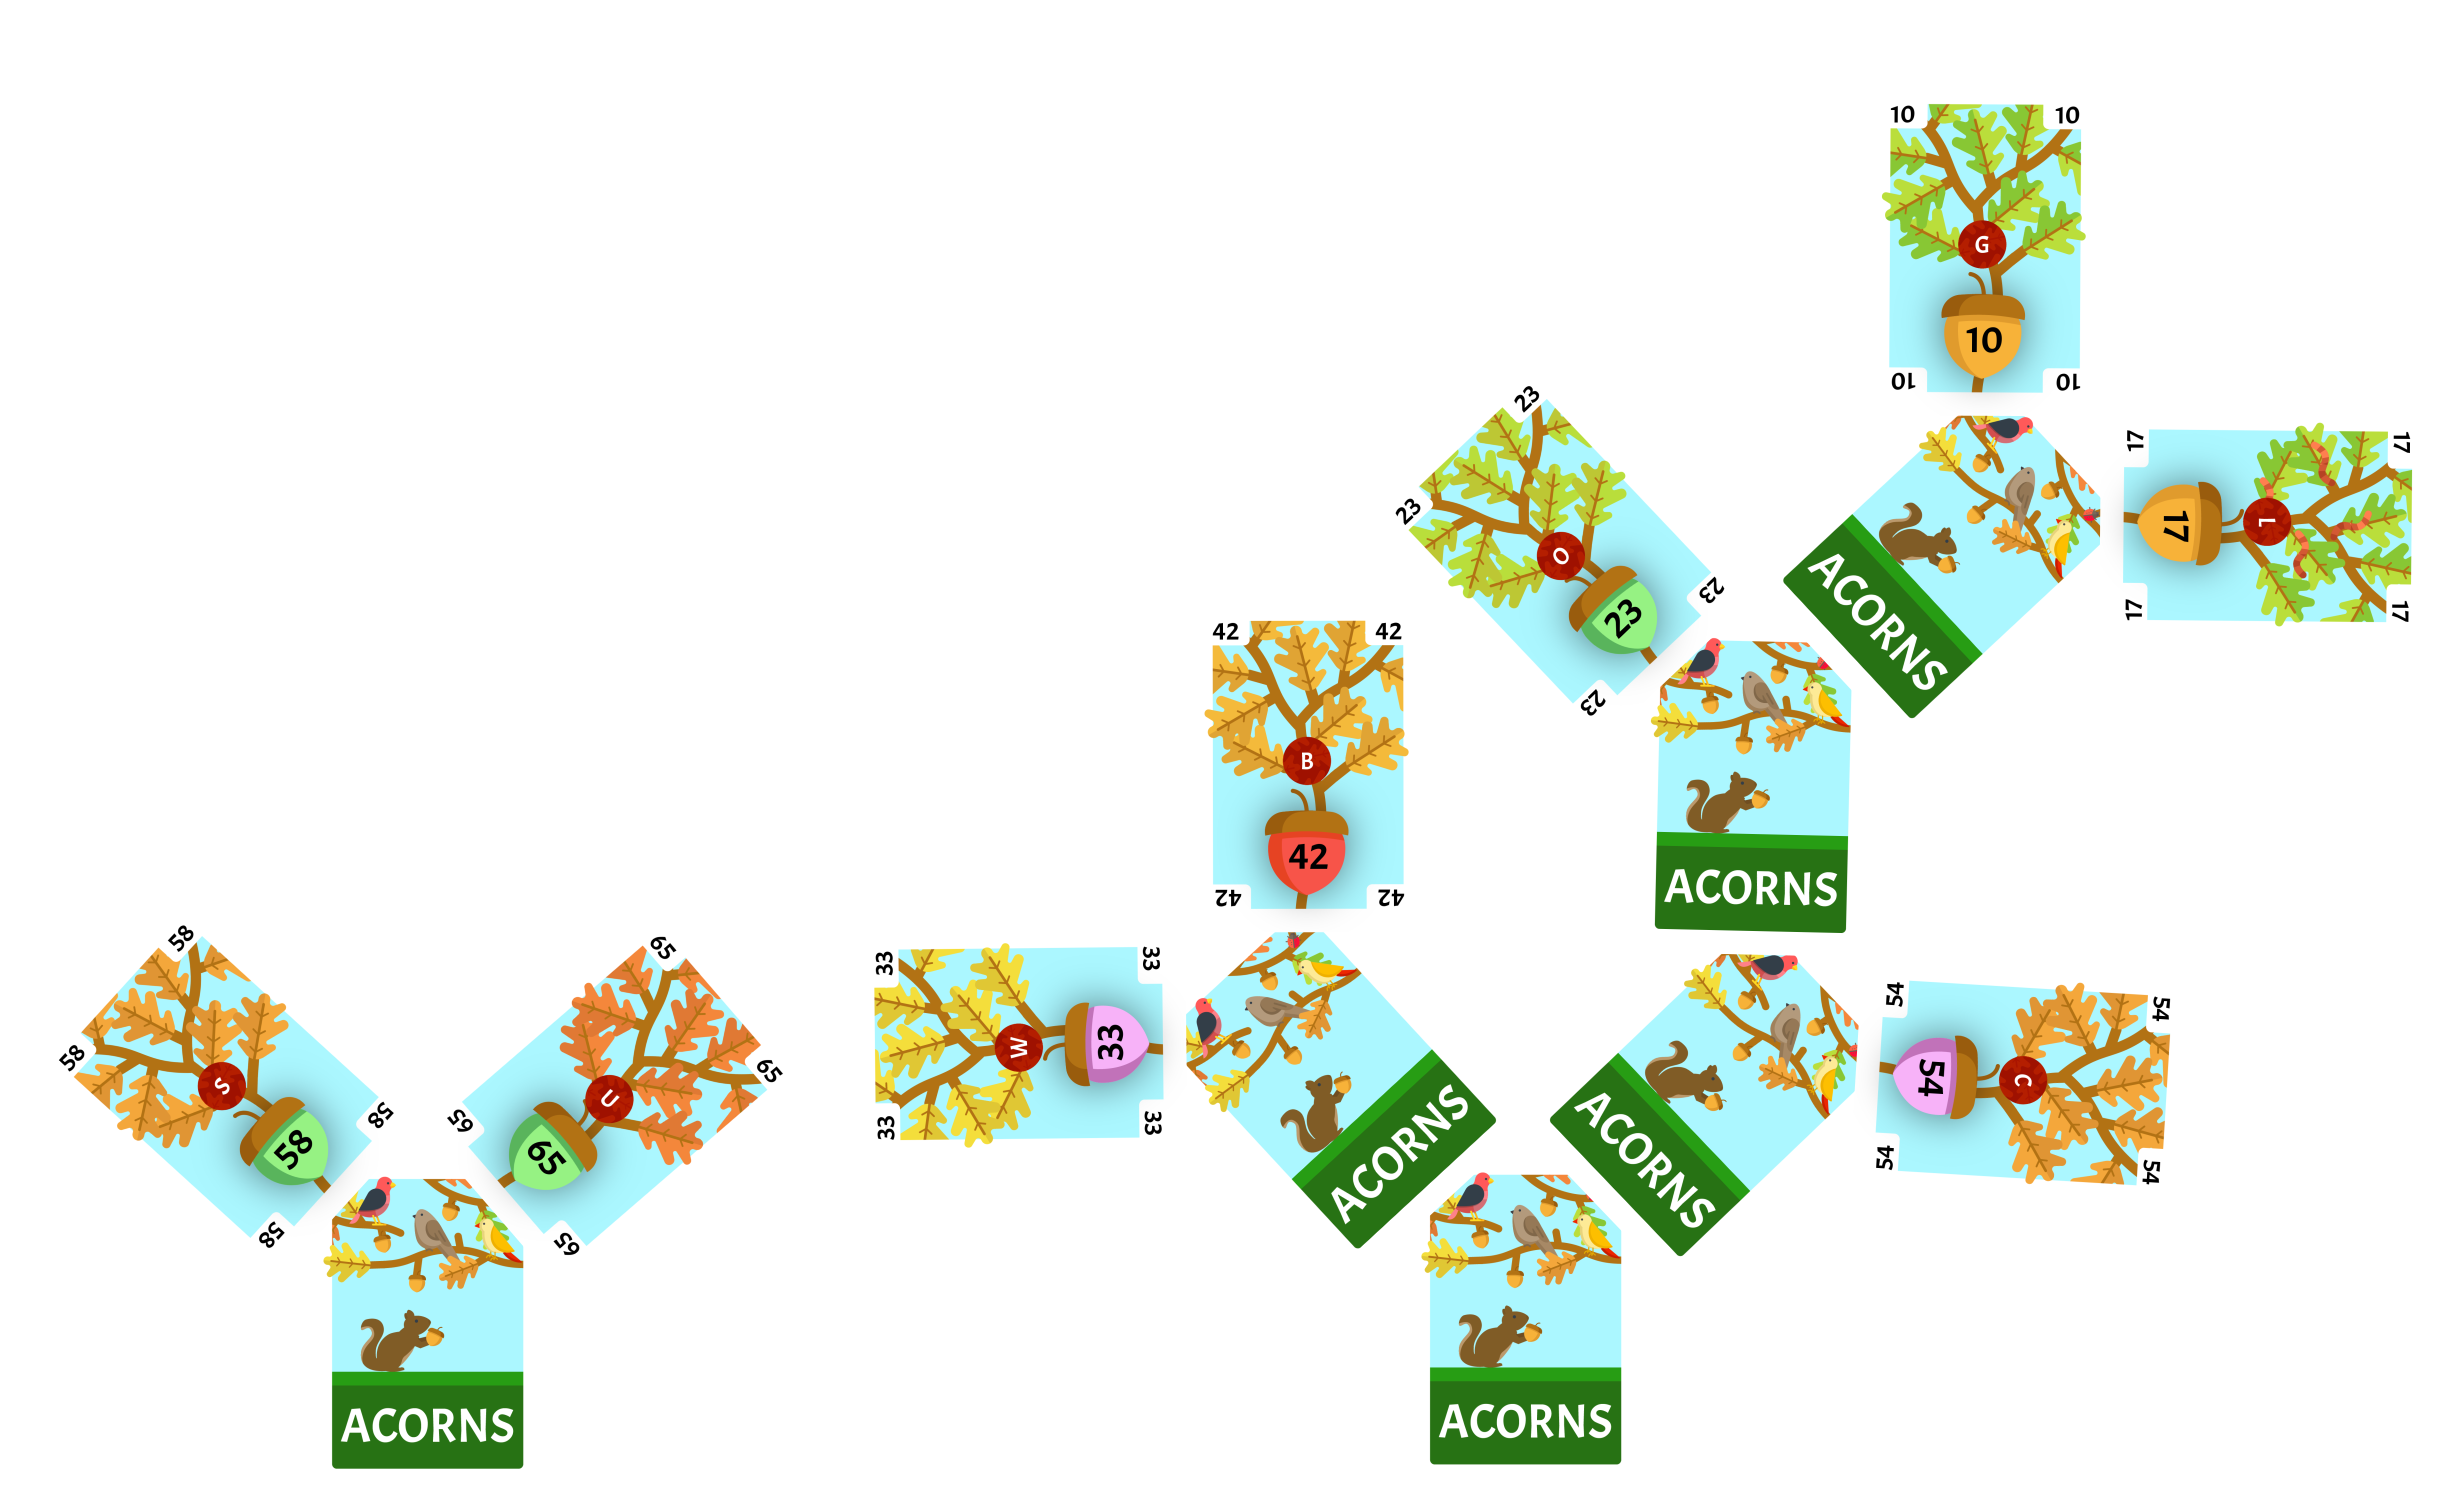
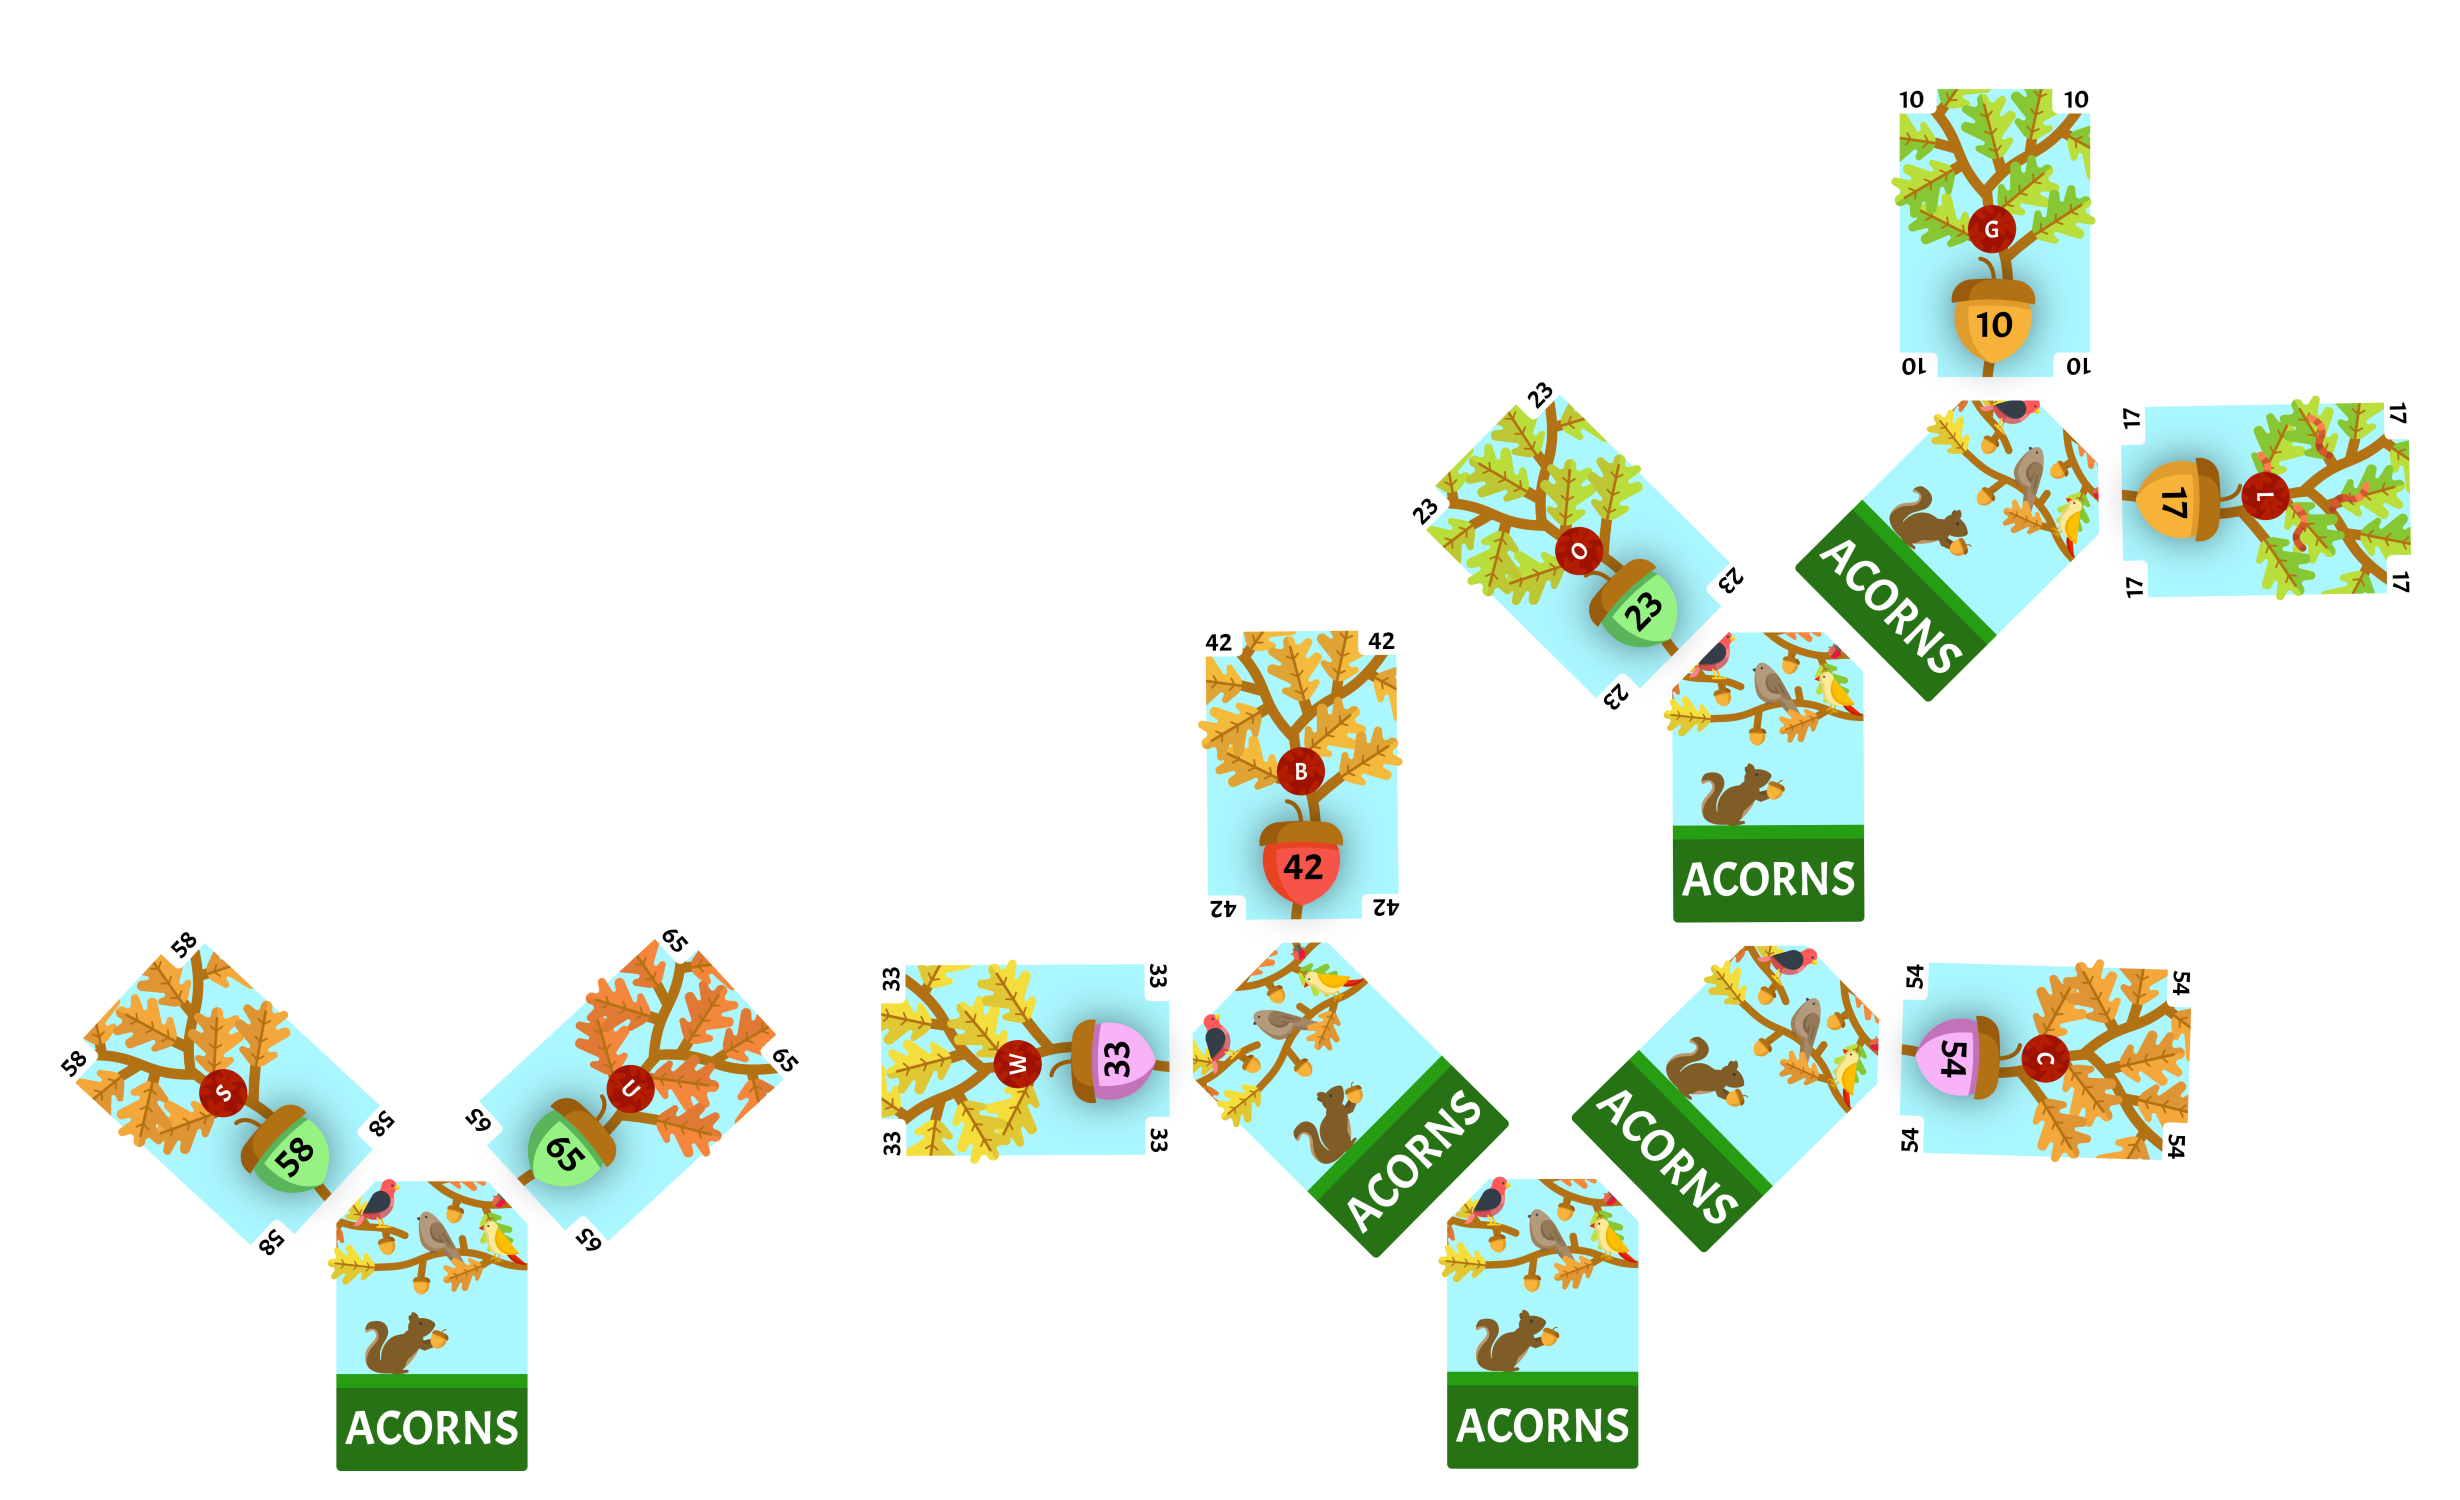
Added sorting to Huffman Algorithm, Added Video, Fixed Images

Changed region(s): [[0.0309, 0.0613, 0.9886, 0.9813]]

diff --git a/_pages/huffman.md b/_pages/huffman.md
@@ -12,6 +12,8 @@ Students will understand elements of the Huffman coding algorithm, which assigns
 
 ## Video
 
+<style>.embed-container { position: relative; padding-bottom: 56.25%; height: 0; overflow: hidden; max-width: 100%; } .embed-container iframe, .embed-container object, .embed-container embed { position: absolute; top: 0; left: 0; width: 100%; height: 100%; }</style><div class='embed-container'><iframe src='https://www.youtube.com/embed/4wa4ikom9-I?si=2Ns4DHQGVlGSEI4P' frameborder='0' allowfullscreen></iframe></div>
+
 ## Materials
 
 One deck of [Acorn]({{site.baseurl}}/tree) cards.
@@ -22,13 +24,15 @@ One deck of [Acorn]({{site.baseurl}}/tree) cards.
 
 Shuffle the deck and deal each student 8 cards. Give each student 8 random chits.
 
-Each student will place their 8 cards in a row face-up to form a *collection* in front of you. Each student will place a chit on each face-up card.
+Each student will place their 8 cards in a row face-up to form a *collection* in front of you. Each student will place a chit on each face-up card and then sort the *collection*
+
+Whenever we sort the *collection*, you are free to use whichever sorting method you have previously learned.
 
 ## Algorithm
 
 ### Constructing the Tree
 
-1. Remove the two **least-valued** cards from the *collection*. Draw a card from the deck and place it face-down as the *root* card of a new subtree. Place the **least-value** of the two cards as the *left* child of the *root* card and the **greatest-value** as the *right* child. The face-down *root* card has the value of its children added together. Reinsert the *root* card into the *collection* and keep all of its children intact.
+1. Sort the *collection* and remove the two **least-valued** cards from the *collection*. Draw a card from the deck and place it face-down as the *root* card of a new subtree. Place the **least-value** of the two cards as the *left* child of the *root* card and the **greatest-value** as the *right* child. The face-down *root* card has the value of its children added together. Reinsert the *root* card into the *collection* keeping all of its children intact and sort the *collection*.
 
 2. If there is more than one card in the *collection*, repeat step 1.
 
@@ -44,37 +48,37 @@ For each leaf of the tree, a new binary value can be assigned to it based on the
 
 ## Example
 
-First we lay out our initial collection and place a chit on each card.
+First we lay out our initial *collection*, place a chit on each card, and then sort the *collection*.
 
 {% include figure image_path="/assets/images/huffman0.png" alt="Initial collection with chits." caption="Initial collection with chits." %}
 
 ### Constructing the Tree
 
-We will remove the two **least-valued** cards **10** and **17** from our collection. We will draw a card from the deck and place it face-down as the *root* of a new subtree. **10** is the **least-value** of the two cards we removed so it will be the *left* child of the *root* card. **17** is the **greatest-value** of the two cards we removed so it will be the *right* child of the *root* card. The value of the face-down card is **27**, and we will reinsert it into the collection with all of it's children intact. There are 7 cards in the collection, so we will have to repeat this step.
+We will remove the two **least-valued** cards **10** and **17** from our *collection*. We will draw a card from the deck and place it face-down as the *root* of a new subtree. **10** is the **least-value** of the two cards we removed so it will be the *left* child of the *root* card. **17** is the **greatest-value** of the two cards we removed so it will be the *right* child of the *root* card. The value of the face-down card is **27**, we will reinsert it into the *collection* with all of it's children intact and sort the *collection*. There are 7 cards in the *collection*, so we will have to repeat this step.
 
 {% include figure image_path="/assets/images/huffman1.png" alt="Initial collection with chits." caption="Initial collection with chits." %}
 
-We will remove the two **least-valued** cards **23** and our face-down card with a value of **27** from our collection. We will draw a card from the deck and place it face-down as the *root* of a new subtree. **23** is the **least-value** of the two cards we removed so it will be the *left* child of the *root* card. **27** is the **greatest-value** of the two cards we removed so it will be the *right* child of the *root* card. The value of the face-down card is **50**, and we will reinsert it into the collection with all of it's children intact. There are 6 cards in the collection, so we will have to repeat this step.
+ the two **least-valued** cards **23** and our face-down card with a value of **27** from our *collection*. We will draw a card from the deck and place it face-down as the *root* of a new subtree. **23** is the **least-value** of the two cards we removed so it will be the *left* child of the *root* card. **27** is the **greatest-value** of the two cards we removed so it will be the *right* child of the *root* card. The value of the face-down card is **50**, we will reinsert it into the *collection* with all of it's children intact and sort the *collection*. There are 6 cards in the *collection*, so we will have to repeat this step.
 
 {% include figure image_path="/assets/images/huffman2.png" alt="Initial collection with chits." caption="Initial collection with chits." %}
 
-We will remove the two **least-valued** cards **33** and **42** from our collection. We will draw a card from the deck and place it face-down as the *root* of a new subtree. **33** is the **least-value** of the two cards we removed so it will be the *left* child of the *root* card. **42** is the **greatest-value** of the two cards we removed so it will be the *right* child of the *root* card. The value of the face-down card is **72**, and we will reinsert it into the collection with all of it's children intact. There are 5 cards in the collection, so we will have to repeat this step.
+We will remove the two **least-valued** cards **33** and **42** from our *collection*. We will draw a card from the deck and place it face-down as the *root* of a new subtree. **33** is the **least-value** of the two cards we removed so it will be the *left* child of the *root* card. **42** is the **greatest-value** of the two cards we removed so it will be the *right* child of the *root* card. The value of the face-down card is **72**, we will reinsert it into the *collection* with all of it's children intact and sort the *collection*. There are 5 cards in the *collection*, so we will have to repeat this step.
 
 {% include figure image_path="/assets/images/huffman3.png" alt="Initial collection with chits." caption="Initial collection with chits." %}
 
-We will remove the two **least-valued** cards **54** and our face-down card with a value of **50** from our collection. We will draw a card from the deck and place it face-down as the *root* of a new subtree. **50** is the **least-value** of the two cards we removed so it will be the *left* child of the *root* card. **54** is the **greatest-value** of the two cards we removed so it will be the *right* child of the *root* card. The value of the face-down card is **104**, and we will reinsert it into the collection with all of it's children intact. There are 4 cards in the collection, so we will have to repeat this step.
+We will remove the two **least-valued** cards **54** and our face-down card with a value of **50** from our *collection*. We will draw a card from the deck and place it face-down as the *root* of a new subtree. **50** is the **least-value** of the two cards we removed so it will be the *left* child of the *root* card. **54** is the **greatest-value** of the two cards we removed so it will be the *right* child of the *root* card. The value of the face-down card is **104**, we will reinsert it into the *collection* with all of it's children intact and sort the *collection*. There are 4 cards in the *collection*, so we will have to repeat this step.
 
 {% include figure image_path="/assets/images/huffman4.png" alt="Initial collection with chits." caption="Initial collection with chits." %}
 
-We will remove the two **least-valued** cards **58** and **65** from our collection. We will draw a card from the deck and place it face-down as the *root* of a new subtree. **58** is the **least-value** of the two cards we removed so it will be the *left* child of the *root* card. **65** is the **greatest-value** of the two cards we removed so it will be the *right* child of the *root* card. The value of the face-down card is **123**, and we will reinsert it into the collection with all of it's children intact. There are 3 cards in the collection, so we will have to repeat this step.
+We will remove the two **least-valued** cards **58** and **65** from our *collection*. We will draw a card from the deck and place it face-down as the *root* of a new subtree. **58** is the **least-value** of the two cards we removed so it will be the *left* child of the *root* card. **65** is the **greatest-value** of the two cards we removed so it will be the *right* child of the *root* card. The value of the face-down card is **123**, we will reinsert it into the *collection* with all of it's children intact and sort the *collection*. There are 3 cards in the *collection*, so we will have to repeat this step.
 
 {% include figure image_path="/assets/images/huffman5.png" alt="Initial collection with chits." caption="Initial collection with chits." %}
 
-We will remove the two **least-valued** cards, our face-down card with a value of **72** and our face-down card with a value of **104**, from our collection. We will draw a card from the deck and place it face-down as the *root* of a new subtree. **72** is the **least-value** of the two cards we removed so it will be the *left* child of the *root* card. **104** is the **greatest-value** of the two cards we removed so it will be the *right* child of the *root* card. The value of the face-down card is **176**, and we will reinsert it into the collection with all of it's children intact. There are 2 cards in the collection, so we will have to repeat this step.
+We will remove the two **least-valued** cards, our face-down card with a value of **72** and our face-down card with a value of **104**, from our *collection*. We will draw a card from the deck and place it face-down as the *root* of a new subtree. **72** is the **least-value** of the two cards we removed so it will be the *left* child of the *root* card. **104** is the **greatest-value** of the two cards we removed so it will be the *right* child of the *root* card. The value of the face-down card is **176**, we will reinsert it into the *collection* with all of it's children intact and sort the *collection*. There are 2 cards in the *collection*, so we will have to repeat this step.
 
 {% include figure image_path="/assets/images/huffman6.png" alt="Initial collection with chits." caption="Initial collection with chits." %}
 
-We will remove the two **least-valued** cards, our face-down card with a value of **123** and our face-down card with a value of **176** from our collection. We will draw a card from the deck and place it face-down as the *root* of a new subtree. **123** is the **least-value** of the two cards we removed so it will be the *left* child of the *root* card. **176** is the **greatest-value** of the two cards we removed so it will be the *right* child of the *root* card. The value of the face-down card is **299**, and we will reinsert it into the collection with all of it's children intact. There is only 1 card in the collection, so we are finished.
+We will remove the two **least-valued** cards, our face-down card with a value of **123** and our face-down card with a value of **176** from our *collection*. We will draw a card from the deck and place it face-down as the *root* of a new subtree. **123** is the **least-value** of the two cards we removed so it will be the *left* child of the *root* card. **176** is the **greatest-value** of the two cards we removed so it will be the *right* child of the *root* card. The value of the face-down card is **299**, we will reinsert it into the *collection* with all of it's children intact and sort the *collection*. There is only 1 card in the *collection*, so we are finished.
 
 {% include figure image_path="/assets/images/huffman7.png" alt="Initial collection with chits." caption="Initial collection with chits." %}
 
